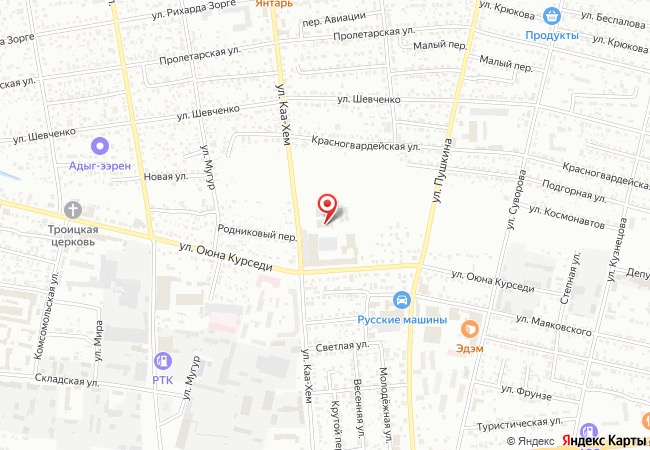
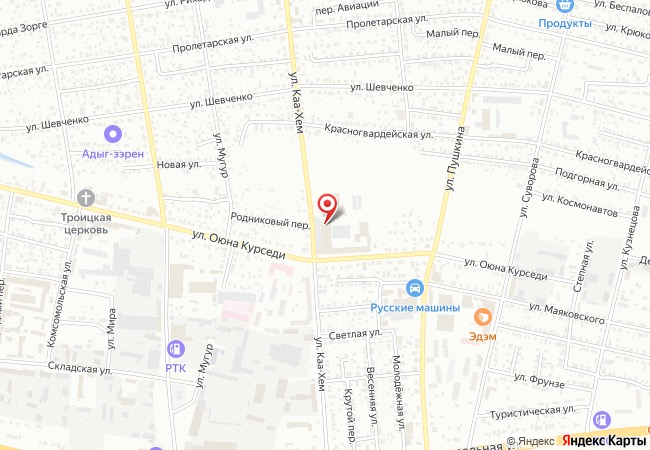
Fix map pin location — was on the neighboring building
Hardcoded coords from OSM Nominatim resolved to 54В instead of the shop's actual building (54). Re-picked coordinates by visually matching Yandex's own indexed "В наш дом" business pin on a zoomed static map. Also updated the contacts-section background map image to match.

diff --git a/script.js b/script.js
@@ -253,10 +253,11 @@ if (catalogGrid) {
 // Coordinates are hardcoded (not geocoded at runtime) because Yandex JS API
 // 2.1's geocode() uses a JSONP request that Chrome's Opaque Response
 // Blocking (ORB) rejects — net::ERR_BLOCKED_BY_ORB — regardless of key/
-// referer setup. Looked up once via OpenStreetMap Nominatim for
-// "г. Кызыл, ул. Оюна Курседи, 54".
+// referer setup. OSM Nominatim's address match landed on the neighboring
+// building (54В) instead of the shop's actual building (54) — these were
+// hand-tuned against Yandex's own "В наш дом" business pin on their map.
 const YANDEX_MAPS_API_KEY = 'ed2991cb-a0a1-45a8-a39c-59338261e975';
-const SHOP_COORDS = [51.7092462, 94.4589544];
+const SHOP_COORDS = [51.708914, 94.458418];
 const mapContainer = document.getElementById('yandexMap');
 if (mapContainer && YANDEX_MAPS_API_KEY) {
   const mapScript = document.createElement('script');
